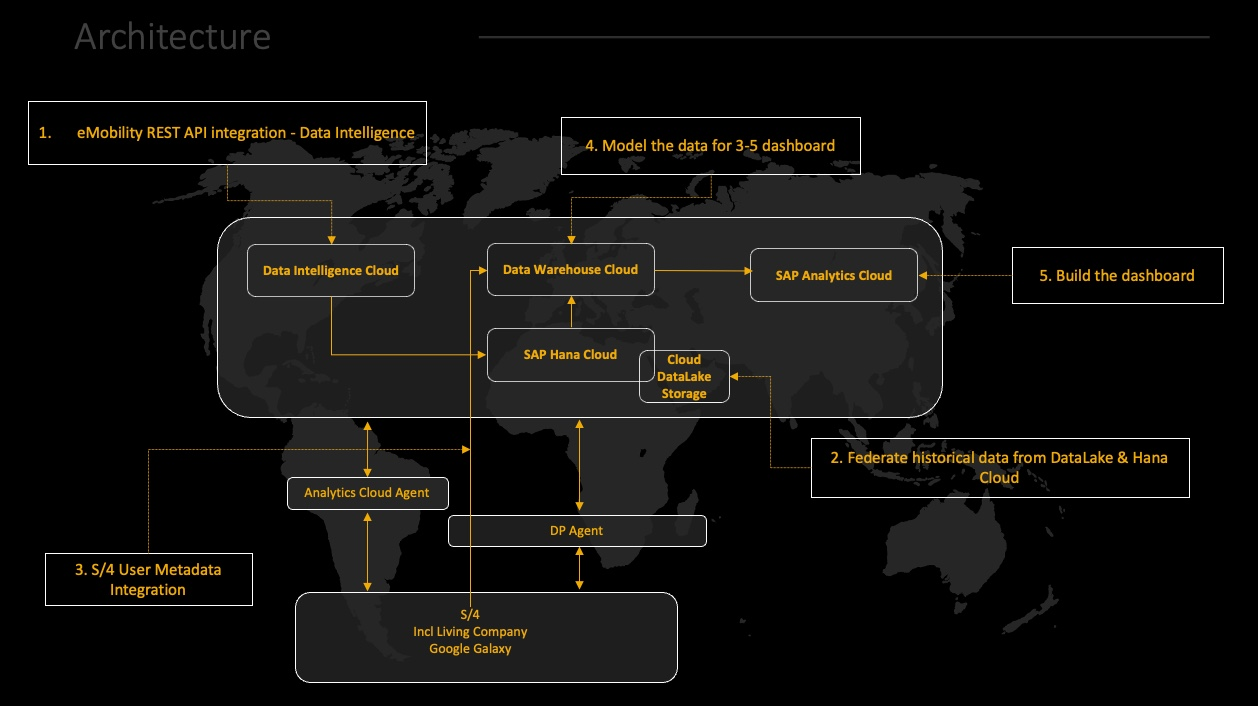
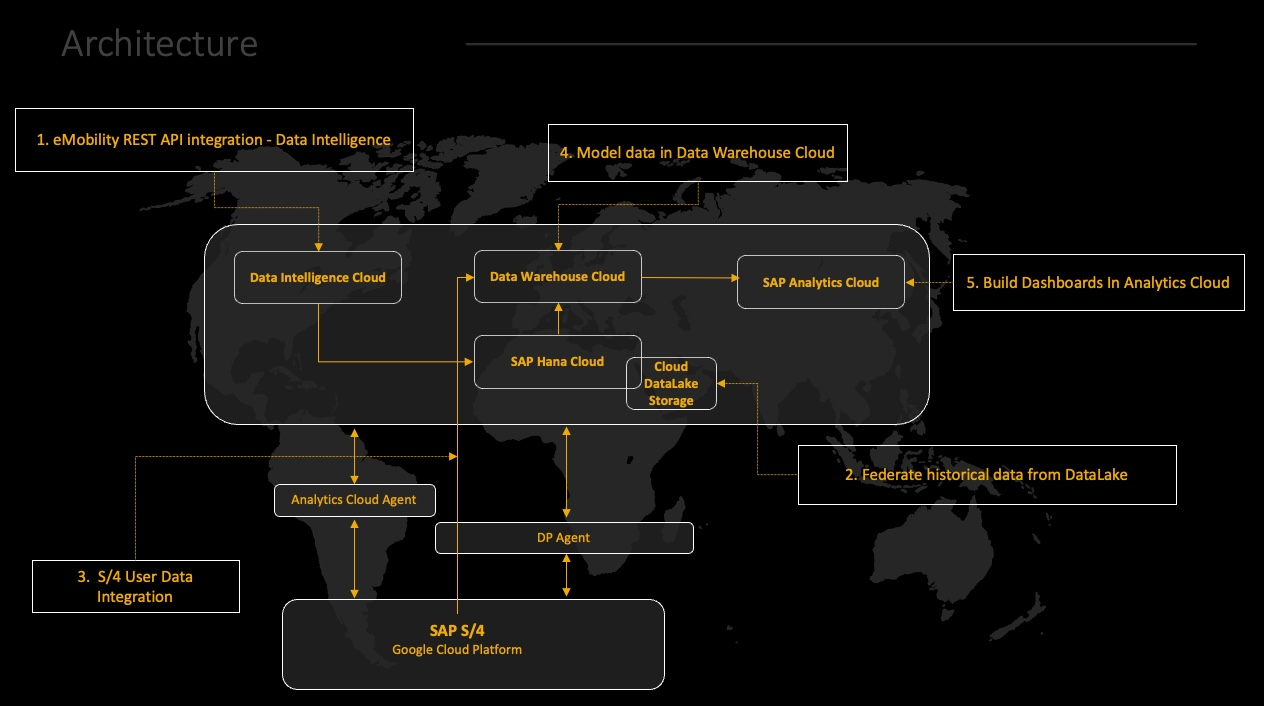
update arch ex0

diff --git a/exercises/ex0/README.md b/exercises/ex0/README.md
@@ -13,9 +13,9 @@ In this exercise you will learn about the architecture implemented in this hands
 <!-- ## Exercise 0.2 - SAP Data Intelligence -->
 ## 0.1 - REST API integration SAP Data Intelligence 
 
-SAP Data Intelligence graph is a network of operators connected to each other using typed input ports and output ports for data transfer where users can define and configure the operators in a graph.
+SAP Data Intelligence ``Graph`` is a network of ``operators`` connected to each other using typed input ports and output ports for data transfer where users can define and configure the operators in a graph.
 
-In our hands-on workshop we have used the custom Python Operator with custom eMobility API calls to consume and transform API data that are staged in SAP Hana Cloud.
+In our hands-on workshop we have used the custom Python Operator with custom ``eMobility API ``calls to consume and transform API data that are staged in ``SAP Hana Cloud``.
 
 The workshop is not focused on Data Pipelining and consumption, this is merely background information on data origin.
 
@@ -25,7 +25,8 @@ Data Intelligence Launchpad is a central access point for various tool sets with
 
 ![](../Images/mod_1.jpg)
 
-Customizable Python operator with custom API calls and data transformation.
+
+``Customizable Python`` operator with custom API calls and data transformation.
 
 ![](/exercises/Images/mod_2.jpg)
 
@@ -40,11 +41,45 @@ SAP Hana Cloud Operator configuration attributes.
 
 
 
-<!-- ## Exercise 0.3 - SAP Data Warehouse Cloud -->
+<br>
 
-## 0.2 - Model data in Data Warehouse Cloud
+## 0.2 - Federate Historical data from DataLake
 
-SAP Data Warehouse Cloud unifies data and analytics in a multi-cloud  solution that includes data integration, database, data warehouse, and  analytics capabilities for a data-driven enterprise.
+eMobility historical data is loaded into the Data Lake via a Data Intelligence Cloud Graph (Pipeline). The historical data is then federated by creating ``virtual tables`` via ``Database Explorer`` as seen in the image below.
+
+This give us the ability to join the historical data with more recent hot data resident in SAP HANA Cloud for analysis.
+
+<br>
+
+![](/exercises/Images/fed.jpg)
+
+``Data Lake`` is an ``SAP HANA Cloud`` component composed of Data Lake IQ – which provides high-performance analysis for petabyte volumes of relational data – and data Lake Files – which provides managed access to ``structured``, ``semistructured``, and ``unstructured`` data stored as files in the data Lake.
+
+Data Lake is fully integrated into SAP HANA Cloud, sharing common security and tooling.
+
+Data Lake is available in different configurations. You can integrate it into a SAP HANA Cloud, SAP HANA database instance, or you can provision a standalone data Lake instance with no SAP HANA database integration. You can also enable or disable the data Lake IQ component when provisioning your data Lake instance.
+
+<br>
+
+## 0.3 S/4 User Data Integration
+
+We ingest and integrate user data data from a SAP S/4 system as sources into ``SAP Data Warehouse Cloud``.
+
+SAP Data Warehouse Cloud provides various options to ingest and integrate data:
+
+- Space administrators and integrators create connections to source systems and databases. 
+- Modelers can use connections in views or data flows, or to import models from SAP BW∕4HANA. 
+- Integrators can configure if data is directly accessed in the source (federation) or copied into SAP Data Warehouse Cloud (replication).
+
+Connections have been configured from SAP Data Warehouse Cloud to SAP S/4HANA and SAP HANA Cloud tenant.
+
+![](../Images/s4_1.png)
+
+<br>
+
+## 0.4 - Model data in Data Warehouse Cloud
+
+SAP Data Warehouse Cloud unifies data and analytics in a multi-cloud solution that includes data integration, database, data warehouse, and  analytics capabilities for a data-driven enterprise.
 
 Connections have been configured from SAP Data Warehouse Cloud to SAP S/4HANA and SAP HANA Cloud tenant.
 
@@ -53,9 +88,6 @@ eMobilty user master data is being sourced from SAP S/4HANA.
 eMobility transactions related data is sourced from SAP HANA Cloud.
 
 ![](../Images/Visualisationimages/image1.png)
-
-
-
 
 
 In the graphical view:
@@ -71,7 +103,7 @@ In the graphical view:
 
 
 
-Latitude and Longitude information of the charging points are being made available in SAP HANA Cloud. It would be beneficial to bring in this information as it enables us to build geo map based visualisations in SAP Analytics Cloud.
+Latitude and Longitude information of the charging points are being made available in SAP HANA Cloud. It would be beneficial to bring in this information as it enables us to build geo map based visualizations in SAP Analytics Cloud.
 
 
 
@@ -82,34 +114,16 @@ eMobility location's view holding the spatial reference is associated with the m
 ![](../Images/Visualisationimages/image3.png)
 
 
-
-
-
-Graphical view gets consumed in SAP Analytics Cloud to build visualisations
-
-## 0.3 - Data Federation
-
-eMobility historical data is loaded into the Data lake via a Data Intelligence Cloud Graph (Pipeline). The historical data is then federated by creating virtual tables via Database Explorer as seen in the image below.
-
-This give us the ability to join the historical data with more recent hot data resident in SAP HANA Cloud for analysis.
+Graphical view gets consumed in SAP Analytics Cloud to build visualizations
 
 <br>
 
-
-![](/exercises/Images/fed.jpg)
-
-Data lake is an SAP HANA Cloud component composed of data lake IQ – which provides high-performance analysis for petabyte volumes of relational data – and data lake Files – which provides managed access to structured, semistructured, and unstructured data stored as files in the data lake.
-
-Data lake is fully integrated into SAP HANA Cloud, sharing common security and tooling.
-
-Data lake is available in different configurations. You can integrate it into a SAP HANA Cloud, SAP HANA database instance, or you can provision a standalone data lake instance with no SAP HANA database integration. You can also enable or disable the data lake IQ component when provisioning your data lake instance.
-
-## 0.4 - Build Dashboards in SAP Analytics Cloud
+## 0.5 - Build Dashboards in SAP Analytics Cloud
 
 
  SAP Analytics Cloud is a powerful tool to meet the needs of data visualization in the cloud. It helps business users make confident decisions based on data-driven insights. It is an all-in-one cloud product for business intelligence (BI), planning, and predictive analytics.
 
-In the hands on exercises we would be consuming the view built in SAP Data Warehouse Cloud to build visualisations which would help us analyse various KPI's.
+In the hands on exercises we would be consuming the view built in SAP Data Warehouse Cloud to build visualizations which would help us analyse various KPI's.
 
 Charge@Work Overview
 
@@ -117,7 +131,7 @@ Charge@Work Overview
 
 
 
-Geo map based visualisations
+Geo map based visualizations
 
 ![](../Images/Visualisationimages/image7.png)
 

diff --git a/README.md b/README.md
@@ -33,9 +33,9 @@ Instructions on how to start and use such trials are in [Exercise 0](exercises/e
 - [Exercise 0 - Architecture and Overview](exercises/ex0/)
     - [Exercise 0 - Workshop Architecture](exercises/ex0#0---architecture)
     - [Exercise 0.1 - REST API integration SAP Data Intelligence](exercises/ex0#01---REST-API-integration-SAP-Data-Intelligence)
-    - [Exercise 0.2 - S/4 User Metadata Integration](exercises/ex0#02---S/4-User-Metadata-Integration)
-    - [Exercise 0.3 - Model data in Data Warehouse Cloud](exercises/ex0#03---Model-data-in-Data-Warehouse-Cloud)
-    - [Exercise 0.4 - Data Federation](exercises/ex0#04---Data-Federation)
+    - [Exercise 0.2 - Data Federation](exercises/ex0#02---Data-Federation)
+    - [Exercise 0.3 - S/4 User Data Integration](exercises/ex0#03---S/4-User-Metadata-Integration)
+    - [Exercise 0.4 - Model data in Data Warehouse Cloud](exercises/ex0#04---Model-data-in-Data-Warehouse-Cloud)
     - [Exercise 0.5 - Build Dashboards in SAP Analytics Cloud](exercises/ex0#05---Build-Dashboards-in-SAP-Analytics-Cloud)
 - [Exercise 1 - Self-Service Data Preparation with Data Intelligence](exercises/ex1/)
     - [Exercise 1.1 - Introduction](exercises/ex1#exercise-11---introduction)
